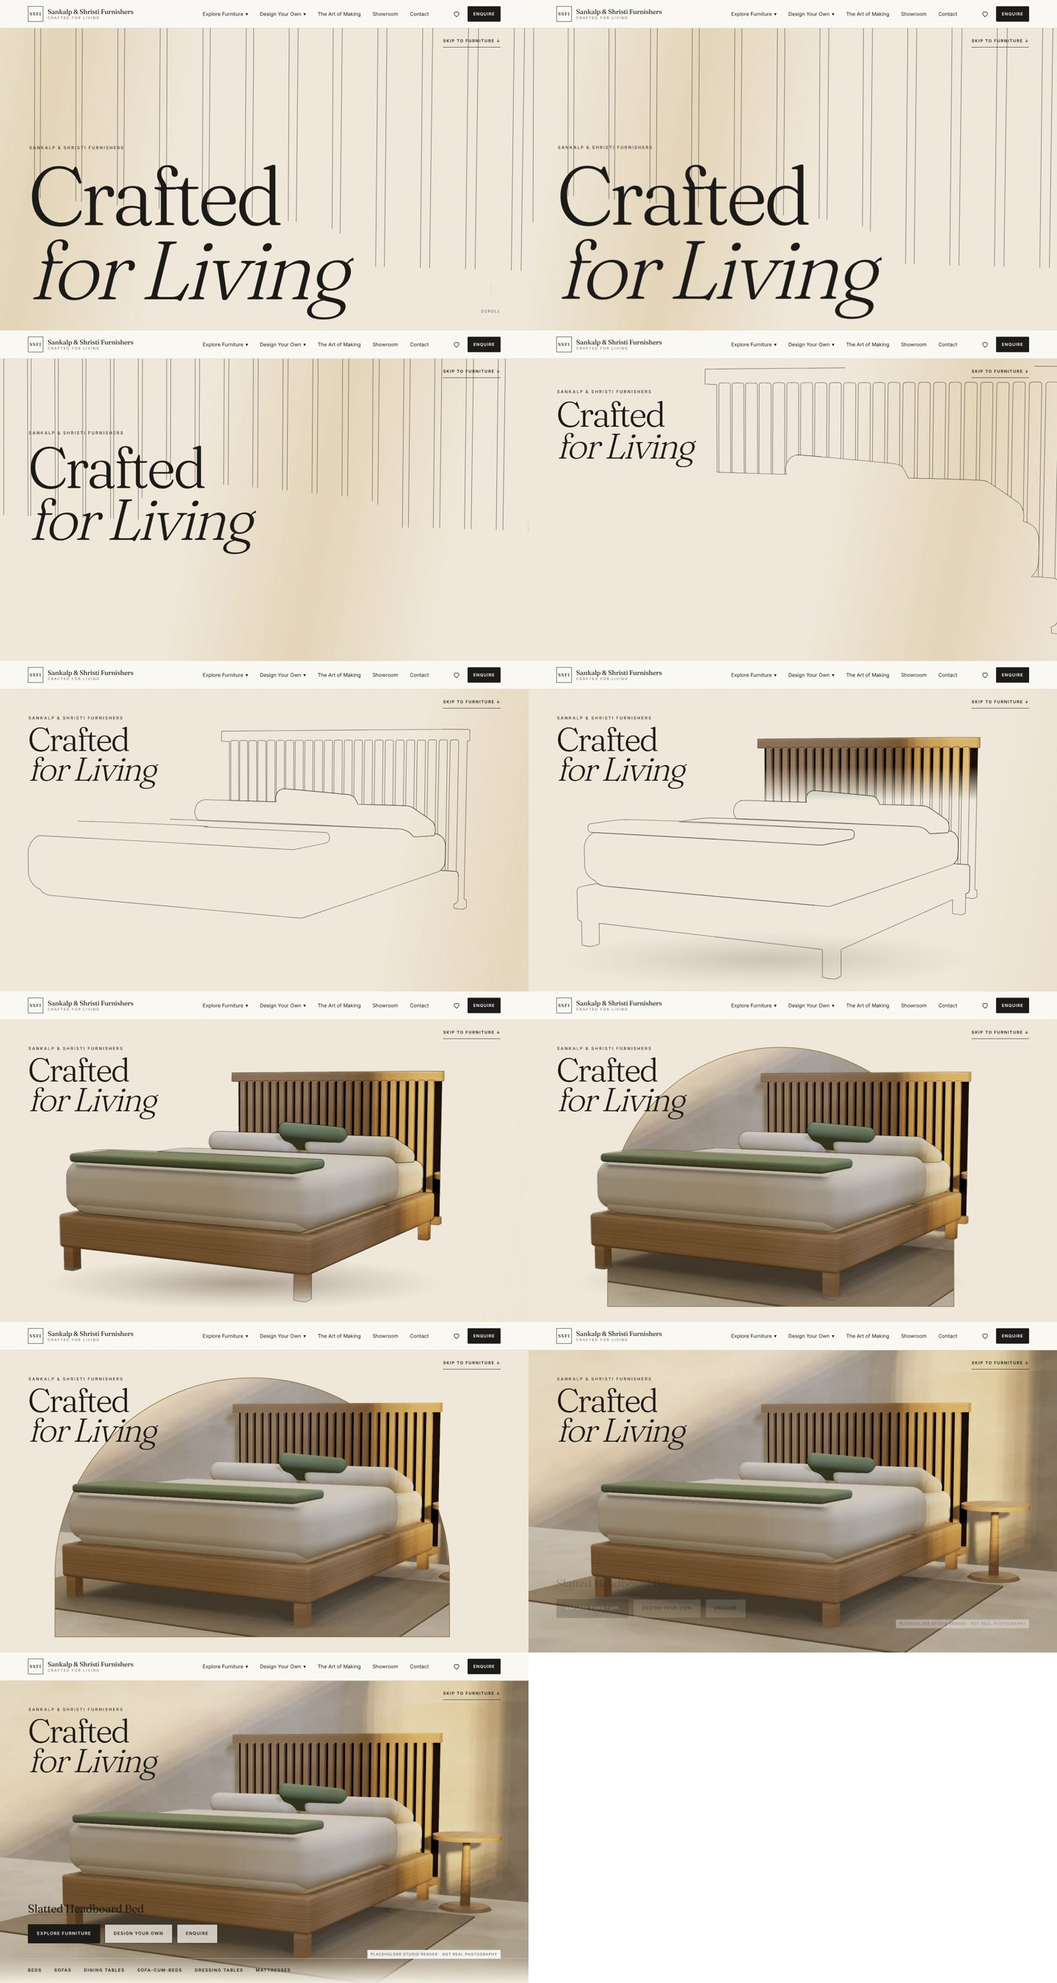
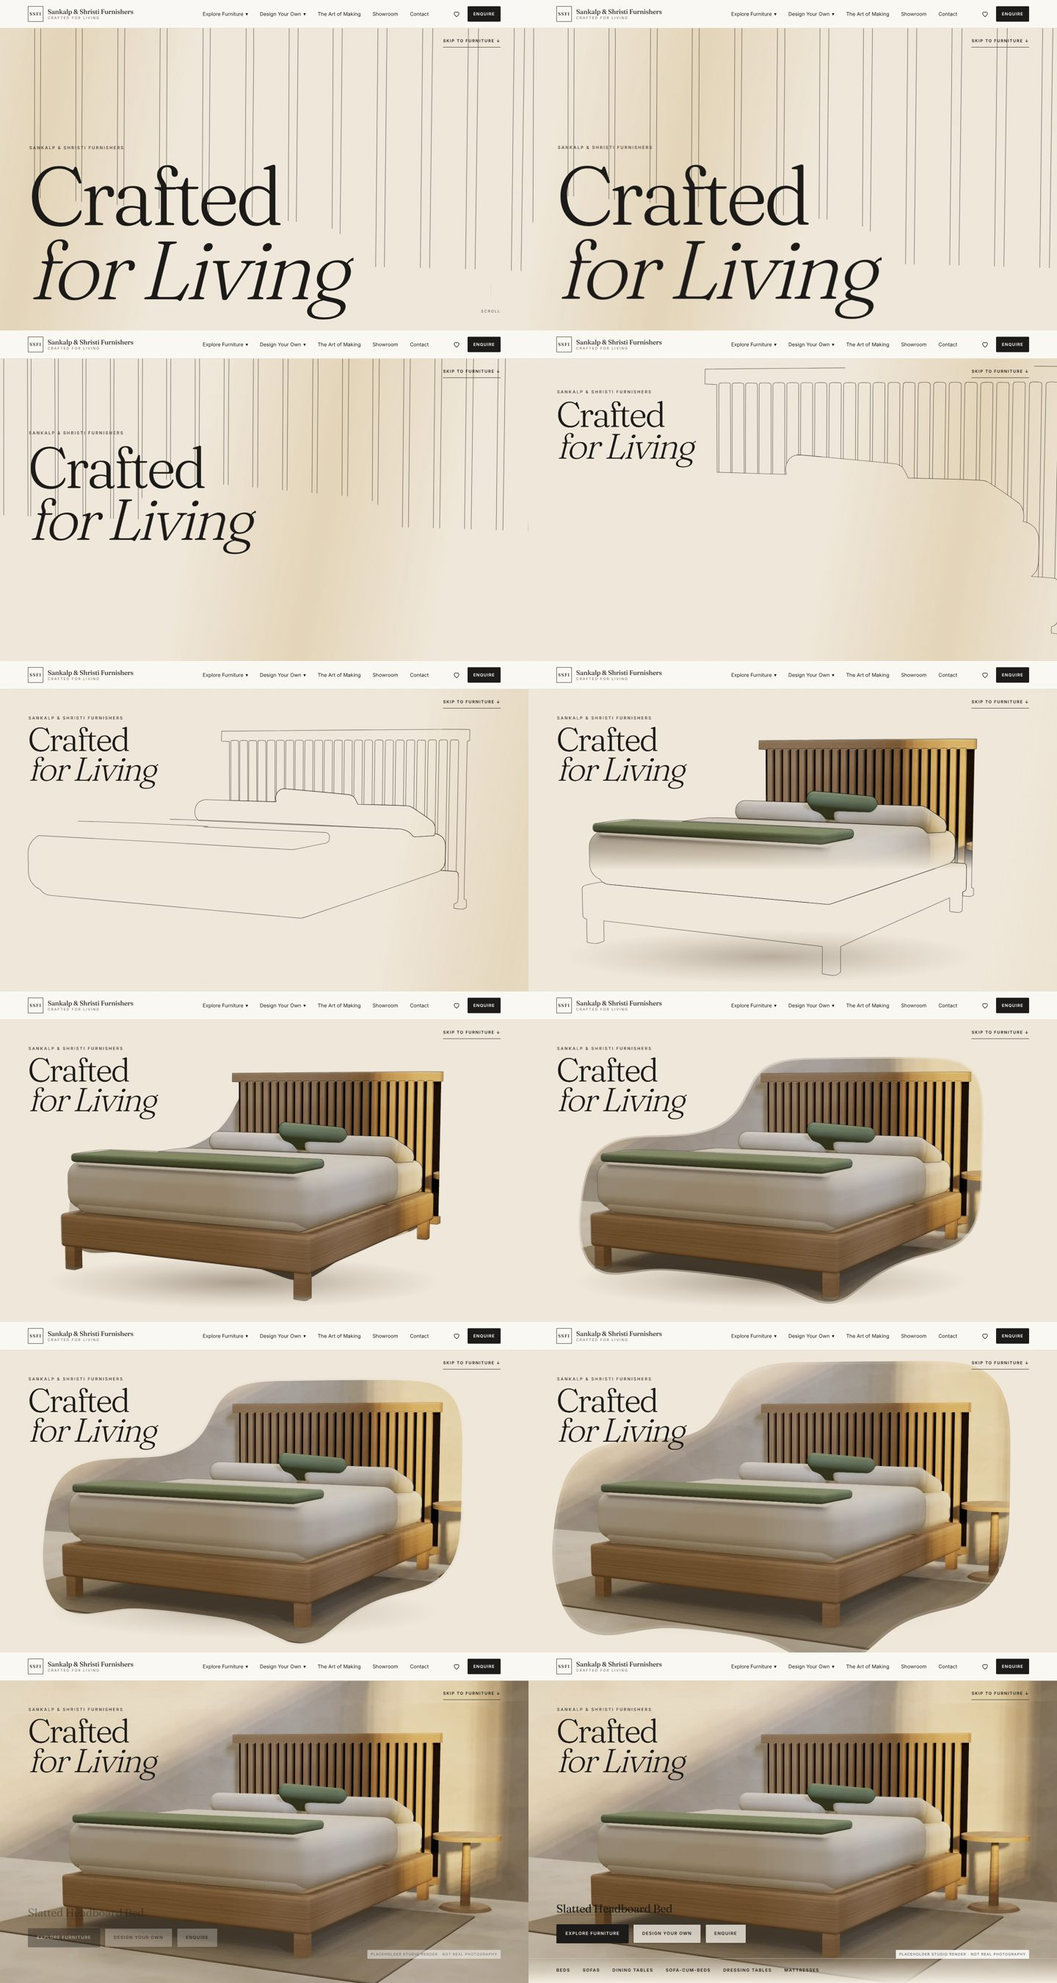
Hero prototype: stacked phone composition and continuous room reveal
- Phones: keyframed camera (monotone cubic), bed framed before its body is drawn, headline stays below the drawing until the reveal; no cropping, no mid-screen void
- Room reveal: nested smooth contours from a blurred distance field around the silhouette replace the arch, so floor and wall arrive together with one continuous edge
- Fix: headline height was measured at its current scale (eyebrow re-wrap), making position path-dependent; now measured at unit scale
- Tests: phone bed stays inside the width, lower part occupied, room grows monotonically and reverses exactly; screenshots refreshed

Claude-Session: https://claude.ai/code/session_01PJh519q37Z2vCJsUEiScy9

diff --git a/src/app/(site)/lab/hero/HeroLab.tsx b/src/app/(site)/lab/hero/HeroLab.tsx
@@ -13,8 +13,12 @@ import "./hero-lab.css";
 type Group = { d: string; bbox: number[] }[];
 const G = trace.groups as unknown as Record<string, Group>;
 const SLATS = G.slat;
+const LEVELS = G.roomLevels; // nested smooth contours around the object, see tools/render/trace-bed.py
+const LV = (trace.groups as unknown as { roomLevelsMeta: { t0: number; ratio: number; n: number }[] }).roomLevelsMeta[0];
 // Only the slats draw while the camera is close; the rest of the object is drawn once the view has pulled back.
 const ORDER: [string, number, number][] = [["head", 0.34, 0.46], ["pillow", 0.4, 0.5], ["bedding", 0.44, 0.55], ["throw", 0.49, 0.57], ["frame", 0.5, 0.62]];
+// Phones: the camera has the whole bed framed from p≈0.32, so the drawing grows leftward from the headboard inside a steady frame.
+const ORDER_M: [string, number, number][] = [["head", 0.26, 0.38], ["pillow", 0.32, 0.42], ["bedding", 0.36, 0.48], ["throw", 0.42, 0.52], ["frame", 0.44, 0.58]];
 
 const clamp = (v: number, a = 0, b = 1) => Math.min(b, Math.max(a, v));
 const seg = (p: number, a: number, b: number) => clamp((p - a) / (b - a));
@@ -24,9 +28,39 @@ const lerp = (a: number, b: number, t: number) => a + (b - a) * t;
 
 const CFG = {
   // f→v: image point f is placed at stage point v; s is the zoom. Start = on the headboard slats, end = the whole plate.
-  desktop: { par: "xMidYMid slice", S0: 5.2, f0: [955, 450], v0: [850, 590], s1: 1, f1: [750, 600], v1: [750, 600], sc1: 0.4, posEnd: 0.72, track: 340 },
-  mobile: { par: "xMidYMid meet", S0: 7.6, f0: [900, 450], v0: [750, 600], s1: 1.2, f1: [716, 600], v1: [750, 372], sc1: 0.62, posEnd: 0.5, track: 290 },
+  desktop: { par: "xMidYMid slice", S0: 5.2, f0: [955, 450], v0: [850, 590], s1: 1, f1: [750, 600], v1: [750, 600], sc1: 0.4, track: 340 },
+  // Phones: a stacked composition that never swaps. The drawing / finished plate lives in the upper part of the stage and the
+  // headline stays big below it (exactly as at the opening); only near the end does the headline rise to sit under the plate.
+  // The headboard fits the width at first; the whole bed is framed by p=0.32 and stays centred between header and headline until
+  // the reveal, when the camera rises to the final plate position.
+  // keys: [p, zoom, fx, fy, vx, vy]   (screen y of an image point = oy + vy·scale, oy = letterbox offset)
+  mobile: {
+    par: "xMidYMid meet", S0: 7.6, f0: [900, 450], v0: [750, 560], s1: 1.2, f1: [716, 600], v1: [750, -158], sc1: 0.62, track: 290,
+    keys: [[0, 7.6, 900, 450, 750, 560], [0.04, 7.6, 900, 450, 750, 560], [0.2, 2.5, 955, 470, 750, 50], [0.24, 2.5, 955, 470, 750, 50], [0.32, 1.2, 716, 600, 750, 50], [0.66, 1.2, 716, 600, 750, 50], [0.95, 1.2, 716, 600, 750, -158], [1, 1.2, 716, 600, 750, -158]] as number[][],
+  },
 };
+
+/** Monotone cubic (Fritsch–Carlson) through (xs, ys): smooth, never overshoots, holds flat across equal keys. */
+function pchip(xs: number[], ys: number[]) {
+  const n = xs.length, h: number[] = [], d: number[] = [], m: number[] = new Array(n).fill(0);
+  for (let i = 0; i < n - 1; i++) { h[i] = xs[i + 1] - xs[i]; d[i] = (ys[i + 1] - ys[i]) / h[i]; }
+  for (let i = 1; i < n - 1; i++) {
+    if (d[i - 1] * d[i] <= 0) m[i] = 0;
+    else { const w1 = 2 * h[i] + h[i - 1], w2 = h[i] + 2 * h[i - 1]; m[i] = (w1 + w2) / (w1 / d[i - 1] + w2 / d[i]); }
+  }
+  return (x: number) => {
+    if (x <= xs[0]) return ys[0];
+    if (x >= xs[n - 1]) return ys[n - 1];
+    let i = 0; while (x > xs[i + 1]) i++;
+    const t = (x - xs[i]) / h[i], t2 = t * t, t3 = t2 * t;
+    return (2 * t3 - 3 * t2 + 1) * ys[i] + (t3 - 2 * t2 + t) * h[i] * m[i] + (-2 * t3 + 3 * t2) * ys[i + 1] + (t3 - t2) * h[i] * m[i + 1];
+  };
+}
+const MOBILE_CAM = (() => {
+  const k = CFG.mobile.keys, xs = k.map((r) => r[0]);
+  const f = [1, 2, 3, 4, 5].map((c) => pchip(xs, k.map((r) => (c === 1 ? Math.log(r[1]) : r[c]))));
+  return (p: number) => ({ s: Math.exp(f[0](p)), fx: f[1](p), fy: f[2](p), vx: f[3](p), vy: f[4](p) });
+})();
 
 export type HeroCat = { slug: string; name: string };
 
@@ -41,52 +75,57 @@ export function HeroLab({ cats }: { cats: HeroCat[] }) {
     const cam = sv.querySelector<SVGGElement>("[data-cam]")!, lines = sv.querySelector<SVGGElement>("[data-lines]")!;
     const slatEls = q<SVGPathElement>("[data-slat]");
     const grpEls = Object.fromEntries(ORDER.map(([k]) => [k, q<SVGPathElement>(`[data-g="${k}"]`)]));
-    const shadow = sv.querySelector<SVGElement>("[data-shadow]")!, archMask = sv.querySelector<SVGPathElement>("[data-arch]")!, archEdge = sv.querySelector<SVGPathElement>("[data-arch-edge]")!;
+    const shadow = sv.querySelector<SVGElement>("[data-shadow]")!, levelEls = q<SVGPathElement>("[data-level]");
     const st1 = sv.querySelector<SVGStopElement>("[data-st1]")!, st2 = sv.querySelector<SVGStopElement>("[data-st2]")!;
     const light = pinEl.querySelector<HTMLElement>("[data-light]")!, fin = pinEl.querySelector<HTMLElement>("[data-final]")!;
     const cats_ = pinEl.querySelector<HTMLElement>("[data-cats]")!, cue = pinEl.querySelector<HTMLElement>("[data-cue]")!, tag = pinEl.querySelector<HTMLElement>("[data-tag]")!;
     const reduce = window.matchMedia("(prefers-reduced-motion: reduce)");
     const mobMq = window.matchMedia("(max-width: 768px)");
 
-    let p = 0, intro = 0, raf = 0, introRaf = 0, cfg = CFG.desktop, baseScale = 1, stageH = 800, blockH = 300, headerH = 76, introDone = false;
+    let p = 0, intro = 0, raf = 0, introRaf = 0, cfg: (typeof CFG)["desktop"] | (typeof CFG)["mobile"] = CFG.desktop, baseScale = 1, stageH = 800, blockH = 300, headerH = 76, introDone = false, measuredW = -1;
     const off = (e: SVGPathElement, r: number) => { e.style.strokeDashoffset = String(1 - clamp(r)); e.style.visibility = r <= 0.002 ? "hidden" : "visible"; };
 
     const render = () => {
       const stat = reduce.matches;
       const pp = stat ? 1 : p;
       const mob = mobMq.matches;
-      const [fx0, fy0] = cfg.f0, [vx0, vy0] = cfg.v0, [fx1, fy1] = cfg.f1, [vx1, vy1] = cfg.v1;
-      // camera: dolly out from the headboard to the whole image
-      const t = ease(seg(pp, 0.04, 0.72));
-      const s = Math.pow(cfg.S0, 1 - t) * Math.pow(cfg.s1, t);
-      const tp = ease(seg(pp, 0.04, cfg.posEnd)); // position can settle before the zoom does (phones centre the object sooner)
-      const fx = lerp(fx0, fx1, tp), fy = lerp(fy0, fy1, tp), vx = lerp(vx0, vx1, tp), vy = lerp(vy0, vy1, tp);
+      // camera: dolly out from the headboard to the whole image (desktop: one eased move; phones: keyframes, see CFG)
+      let s: number, fx: number, fy: number, vx: number, vy: number;
+      if (mob) ({ s, fx, fy, vx, vy } = MOBILE_CAM(pp));
+      else {
+        const [fx0, fy0] = cfg.f0, [vx0, vy0] = cfg.v0, [fx1, fy1] = cfg.f1, [vx1, vy1] = cfg.v1;
+        const t = ease(seg(pp, 0.04, 0.72));
+        s = Math.pow(cfg.S0, 1 - t) * Math.pow(cfg.s1, t);
+        fx = lerp(fx0, fx1, t); fy = lerp(fy0, fy1, t); vx = lerp(vx0, vx1, t); vy = lerp(vy0, vy1, t);
+      }
       cam.setAttribute("transform", `translate(${vx.toFixed(2)} ${vy.toFixed(2)}) scale(${s.toFixed(4)}) translate(${-fx.toFixed(2)} ${-fy.toFixed(2)})`);
       lines.style.strokeWidth = String((1.15 / (baseScale * s)).toFixed(3));
-      archEdge.style.strokeWidth = String((1.5 / (baseScale * s)).toFixed(3));
+      
       // drawing: slats on load; the rest as the camera pulls back
       const iv = stat ? 1 : intro;
       slatEls.forEach((e, i) => off(e, easeOut(clamp((iv - i * 0.018) / 0.62))));
-      for (const [k, a, b] of ORDER) grpEls[k].forEach((e, i) => off(e, ease(seg(pp, a + i * 0.01, b))));
+      for (const [k, a, b] of mob ? ORDER_M : ORDER) grpEls[k].forEach((e, i) => off(e, ease(seg(pp, a + i * 0.01, b))));
       const fade = 1 - seg(pp, 0.62, 0.78);
       lines.style.opacity = (stat ? 0 : fade).toFixed(3);
       // emergence: the object appears inside its own silhouette, top to bottom, following the drawing
       const Y = lerp(290, 1060, ease(seg(pp, 0.5, 0.7)));
       st1.setAttribute("offset", clamp((Y - 90) / 1200).toFixed(4)); st2.setAttribute("offset", clamp(Y / 1200).toFixed(4));
       if (pp <= 0.5) { st1.setAttribute("offset", "0"); st2.setAttribute("offset", "0.001"); }
-      // then its architecture: an arch opens behind it and widens to the whole frame
-      // phase 1: an arch opens sideways behind the bed (crown fixed). phase 2: it widens past the frame.
-      const r1 = easeOut(seg(pp, 0.64, 0.76)), r2 = Math.pow(seg(pp, 0.78, 0.95), 1.7);
-      const R = r2 > 0 ? lerp(560, 2300, r2) : 14 + r1 * 546;
-      const ys = r2 > 0 ? lerp(810, 300, r2) : 250 + R; // springline: crown stays at y=250 while it opens
-      const base = lerp(985, 1560, r2);
-      const d = pp >= 0.64 ? `M${716 - R} ${base}L${716 - R} ${ys}A${R} ${R} 0 0 1 ${716 + R} ${ys}L${716 + R} ${base}Z` : "";
-      archMask.setAttribute("d", d); archEdge.setAttribute("d", d);
-      archEdge.style.opacity = (d ? 1 - seg(pp, 0.88, 0.96) : 0).toFixed(3);
+      // then the room: it grows outward from the object's own silhouette as nested smooth contours (wall above and floor below
+      // arrive together; no straight or arched edge ever crosses the frame). We crossfade between adjacent contour levels.
+      const g = easeOut(seg(pp, 0.66, 0.78)) * 0.3 + Math.pow(seg(pp, 0.74, 0.95), 1.4) * 0.7;
+      const kf = pp < 0.66 ? -1 : g * (LV.n - 1);
+      const k0 = Math.floor(kf);
+      levelEls.forEach((e, k) => {
+        const o = k < k0 ? 1 : k === k0 ? 1 : k === k0 + 1 ? kf - k0 : 0;
+        e.style.opacity = o.toFixed(3); e.style.display = o <= 0.002 ? "none" : "";
+      });
       // type: huge → resolved at top left
-      const tt = ease(seg(pp, 0.08, 0.52));
+      // desktop: the headline climbs to the top-left early. phones: it stays low until the plate is revealed, then rises under it.
+      const tt = mob ? ease(seg(pp, 0.6, 0.84)) : ease(seg(pp, 0.08, 0.52));
       const sc = lerp(1, cfg.sc1, tt);
-      const pad0 = mob ? 96 : stageH * 0.075, pad1 = mob ? 18 : stageH * 0.085;
+      const plateB = ((stageH - 1200 * baseScale) / 2) + (cfg.v1[1] + (1200 - cfg.f1[1]) * cfg.s1) * baseScale;
+      const pad0 = mob ? 96 : stageH * 0.075, pad1 = mob ? plateB + 16 : stageH * 0.085;
       const ty = lerp(stageH - blockH - pad0, pad1, tt);
       ti.style.setProperty("--sc", sc.toFixed(4));
       ti.style.transform = `translate3d(0,${ty.toFixed(1)}px,0) scale(${sc.toFixed(4)})`;
@@ -99,10 +138,10 @@ export function HeroLab({ cats }: { cats: HeroCat[] }) {
       cats_.style.opacity = seg(pp, 0.92, 1).toFixed(3); cats_.style.pointerEvents = pp > 0.95 ? "auto" : "none";
       if (mob) { // phones: pin the tag to the plate's bottom edge
         const oy = (stageH - 1200 * baseScale) / 2;
-        tag.style.top = `${(((1200 - fy1) * cfg.s1 + vy1) * baseScale + oy - 26).toFixed(0)}px`;
+        tag.style.top = `${(((1200 - cfg.f1[1]) * cfg.s1 + cfg.v1[1]) * baseScale + oy - 26).toFixed(0)}px`;
       } else tag.style.top = "";
       tag.style.opacity = seg(pp, 0.84, 0.94).toFixed(3);
-      shadow.style.opacity = (ease(seg(pp, 0.5, 0.66)) * (1 - seg(pp, 0.7, 0.8))).toFixed(3);
+      shadow.style.opacity = (ease(seg(pp, 0.5, 0.66)) * (1 - seg(pp, 0.7, 0.84))).toFixed(3);
       fin.toggleAttribute("inert", f < 0.6); cats_.toggleAttribute("inert", pp <= 0.95 && !stat);
     };
 
@@ -111,7 +150,10 @@ export function HeroLab({ cats }: { cats: HeroCat[] }) {
       sv.setAttribute("preserveAspectRatio", cfg.par);
       const r = sv.getBoundingClientRect();
       baseScale = cfg.par.includes("slice") ? Math.max(r.width / 1500, r.height / 1200) : Math.min(r.width / 1500, r.height / 1200);
-      stageH = pinEl.clientHeight; blockH = ti.offsetHeight;
+      stageH = pinEl.clientHeight;
+      // Measure the headline at unit scale: its eyebrow is counter-scaled (and can re-wrap), so reading the height at the
+      // current scale would feed the previous frame back into this one and make the position path-dependent.
+      if (measuredW !== window.innerWidth) { ti.style.setProperty("--sc", "1"); blockH = ti.offsetHeight; measuredW = window.innerWidth; }
       headerH = parseFloat(getComputedStyle(document.documentElement).getPropertyValue("--header-h")) || 76;
       el.style.setProperty("--hl-track", String(reduce.matches ? 0 : cfg.track));
       const rect = el.getBoundingClientRect();
@@ -163,7 +205,7 @@ export function HeroLab({ cats }: { cats: HeroCat[] }) {
               </linearGradient>
               <mask id="hl-room" maskUnits="userSpaceOnUse" x="-800" y="-900" width="3100" height="2800">
                 <rect x="-800" y="-900" width="3100" height="2800" fill="#000" />
-                <path data-arch="" fill="#fff" d="" />
+                {LEVELS.map((l, k) => <path key={k} data-level="" d={l.d} fill="#fff" fillRule="evenodd" style={{ display: "none" }} />)}
               </mask>
               <mask id="hl-obj" maskUnits="userSpaceOnUse" x="-800" y="-900" width="3100" height="2800">
                 <rect x="-800" y="-900" width="3100" height="2800" fill="#000" />
@@ -176,7 +218,6 @@ export function HeroLab({ cats }: { cats: HeroCat[] }) {
             <g data-cam="">
               <ellipse data-shadow="" cx="690" cy="915" rx="560" ry="74" fill="url(#hl-sh)" opacity="0" />
               <image href="/renders/products/slatted-headboard-bed.webp" width="1500" height="1200" mask="url(#hl-room)" />
-              <path data-arch-edge="" className="hl-arch-edge" d="" fill="none" />
               <image href="/renders/products/slatted-headboard-bed.webp" width="1500" height="1200" mask="url(#hl-obj)" />
               <g data-lines="" className="hl-lines">
                 <g clipPath="url(#hl-head-clip)">

diff --git a/tools/render/trace-bed.py b/tools/render/trace-bed.py
@@ -31,17 +31,77 @@ union = R | G | B
 sl = np.asarray(matte("slat", "slat"))[..., 0] > 127
 masks = {k: down(v) for k, v in parts.items()}
 masks["slat"] = down(sl)
+masks["outline"] = down(union)  # whole-object silhouette: the room is revealed by growing outward from this contour
 os.makedirs(os.path.join(root, "public/lab"), exist_ok=True)
 down(union).save(os.path.join(root, "public/lab/bed-matte.png"), optimize=True)
 
 groups = {}
-eps = {"slat": 0.8, "head": 0.7, "frame": 0.6, "bedding": 0.5, "throw": 0.5, "pillow": 0.5}
+eps = {"slat": 0.8, "head": 0.7, "frame": 0.6, "bedding": 0.5, "throw": 0.5, "pillow": 0.5, "outline": 0.5}
 for k, im in masks.items():
     p = os.path.join(tmp, k + ".png"); im.save(p)
     o = os.path.join(tmp, k + ".json")
     subprocess.run([sys.executable, os.path.join(root, "tools/render/trace-matte.py"), p, o, str(eps[k])], check=True, stdout=subprocess.DEVNULL)
     groups[k] = json.load(open(o))["paths"]
     print(k, len(groups[k]), "contours")
+# --- room reveal levels ---------------------------------------------------------------------------------------------
+# Nested, smooth contours around the object: threshold a *blurred* distance-to-silhouette field at increasing levels.
+# Because the field is smoothed, rail steps and pillow bumps round off as the shape grows (a plain offset of the outline
+# would stay lumpy). The page crossfades between adjacent levels.
+S = (np.asarray(down(union), dtype=np.float32) / 255.0) > 0.5
+H, W = S.shape
+INF = 1e9
+d = np.where(S, 0.0, INF).astype(np.float64)
+# chamfer 5-7-11 distance transform (two passes), ~2 % from Euclidean
+def chamfer(d):
+    for y in range(H):
+        row = d[y]; up = d[y - 1] if y else None; up2 = d[y - 2] if y > 1 else None
+        for x in range(W):
+            v = row[x]
+            if v == 0: continue
+            if x: v = min(v, row[x - 1] + 5)
+            if up is not None:
+                v = min(v, up[x] + 5)
+                if x: v = min(v, up[x - 1] + 7)
+                if x < W - 1: v = min(v, up[x + 1] + 7)
+                if up2 is not None:
+                    if x: v = min(v, up2[x - 1] + 11)
+                    if x < W - 1: v = min(v, up2[x + 1] + 11)
+            row[x] = v
+    for y in range(H - 1, -1, -1):
+        row = d[y]; dn = d[y + 1] if y < H - 1 else None; dn2 = d[y + 2] if y < H - 2 else None
+        for x in range(W - 1, -1, -1):
+            v = row[x]
+            if v == 0: continue
+            if x < W - 1: v = min(v, row[x + 1] + 5)
+            if dn is not None:
+                v = min(v, dn[x] + 5)
+                if x: v = min(v, dn[x - 1] + 7)
+                if x < W - 1: v = min(v, dn[x + 1] + 7)
+                if dn2 is not None:
+                    if x: v = min(v, dn2[x - 1] + 11)
+                    if x < W - 1: v = min(v, dn2[x + 1] + 11)
+            row[x] = v
+    return d / 5.0
+D = chamfer(d)
+D = np.minimum(D, 1400)
+# gaussian blur by FFT (sigma 70 px)
+fy_, fx_ = np.fft.fftfreq(H)[:, None], np.fft.fftfreq(W)[None, :]
+sigma = 70.0
+G = np.exp(-2 * (np.pi ** 2) * (sigma ** 2) * (fx_ ** 2 + fy_ ** 2))
+Ds = np.real(np.fft.ifft2(np.fft.fft2(D) * G))
+T0, RATIO, N = 24.0, 1.0665, 60
+levels = []
+for k in range(N):
+    t = T0 * RATIO ** k
+    g = np.clip(0.5 + (t - Ds) / 2.0, 0, 1)
+    Image.fromarray((g * 255).astype("uint8")).save(os.path.join(tmp, f"lvl{k}.png"))
+    o = os.path.join(tmp, f"lvl{k}.json")
+    subprocess.run([sys.executable, os.path.join(root, "tools/render/trace-matte.py"), os.path.join(tmp, f"lvl{k}.png"), o, "1.4"], check=True, stdout=subprocess.DEVNULL)
+    ps = json.load(open(o))["paths"]
+    levels.append(" ".join(p["d"] for p in ps))
+print("room levels:", N, "paths, ~", sum(len(l) for l in levels) // 1024, "KB; t0", T0, "ratio", RATIO)
+groups["roomLevels"] = [{"d": l} for l in levels]
+groups["roomLevelsMeta"] = [{"t0": T0, "ratio": RATIO, "n": N}]
 os.makedirs(os.path.join(root, "src/app/(site)/lab/hero"), exist_ok=True)
 json.dump({"w": 1500, "h": 1200, "groups": groups}, open(os.path.join(root, "src/app/(site)/lab/hero/bed-trace.json"), "w"), separators=(",", ":"))
 print("matte bytes", os.path.getsize(os.path.join(root, "public/lab/bed-matte.png")))

diff --git a/docs/design/hero-lab/README.md b/docs/design/hero-lab/README.md
@@ -3,12 +3,20 @@
 Isolated prototype route. The live homepage, catalogue, configurators, enquiries and admin are untouched.
 
 ## What it is
-One scroll-progress value (0–1) drives the whole hero: a camera pull-back from the headboard slats to the whole bed, the drawing of the bed's contours, the bed emerging inside its own silhouette (top to bottom), an arch opening behind it, and the final full-bleed image with a path into the catalogue. Everything after a ~1.4 s draw-on at load is a pure function of scroll position, so it reverses exactly. No animation library.
+One scroll-progress value (0–1) drives the whole hero: a camera pull-back from the headboard slats to the whole bed, the drawing of the bed's contours, the bed emerging inside its own silhouette (top to bottom), the room growing outward from the bed's own contour as one smooth shape, and the final full-bleed image with a path into the catalogue. Everything after a ~1.4 s draw-on at load is a pure function of scroll position, so it reverses exactly. No animation library.
 
 ## Why the drawing and photograph register
 The lines are not hand-placed. `tools/render/matte.cjs` renders flat mattes (silhouette, per-part IDs, slats) from the same 3D scene and camera as the beauty render; `tools/render/trace-bed.py` traces them into SVG paths (marching squares, Bezier smoothing) and writes `src/app/(site)/lab/hero/bed-trace.json` plus `public/lab/bed-matte.png`. Drawing, mask and image share one 1500×1200 coordinate space.
 
 Rebuild: `NODE_PATH=$(npm root -g) python3 tools/render/trace-bed.py`
+
+## Phones are a separate composition
+A stacked layout that never swaps: the drawing and, later, the finished plate live in the upper part of the stage; the headline stays large below them exactly as at the opening, and only rises to sit under the plate during the reveal. The camera is keyframed (monotone cubic): the headboard fits the width first, the whole bed is framed by 32 %, and the body is drawn into that steady frame, so nothing is cropped by the screen edge while it draws.
+
+## How the room is revealed
+Not an arch and not a straight edge: nested contours from a *blurred* distance field around the bed silhouette (60 levels, see `tools/render/trace-bed.py`), crossfaded as you scroll. Wall above and floor below arrive together and the edge is always one smooth shape. The bed's measured silhouette is also what the drawing and the emergence mask use.
+
+Known cost: the contour data is ~130 KB of JSON in the client bundle. A production version should ship the distance field as a single image and threshold it, or move this to a shader.
 
 ## Placeholder status
 The bed image is a placeholder studio render (`public/renders/products/slatted-headboard-bed.webp`), labelled on the page. It is not product photography. The traced data only fits this render; a real photograph needs its own tracing.
